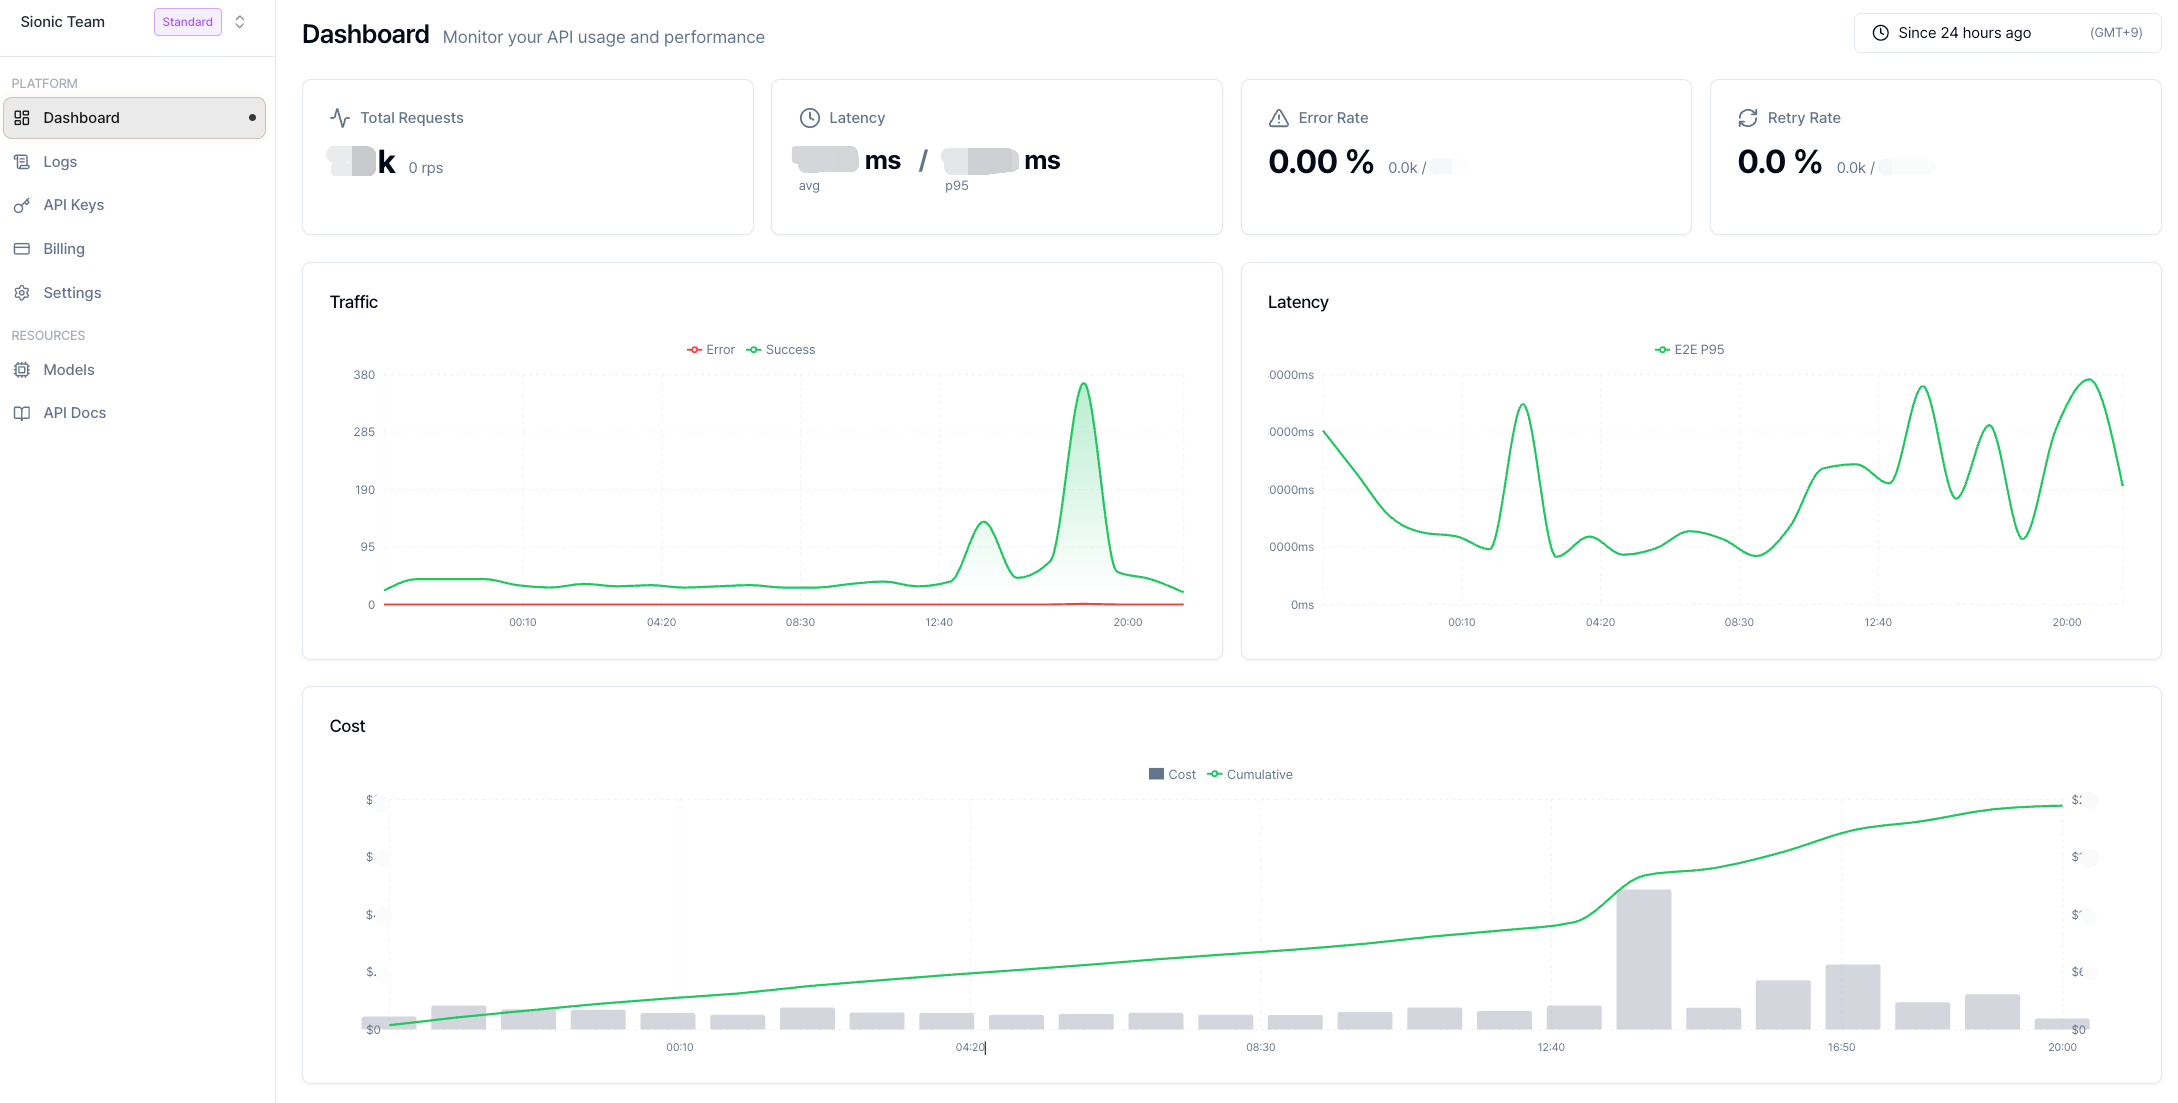
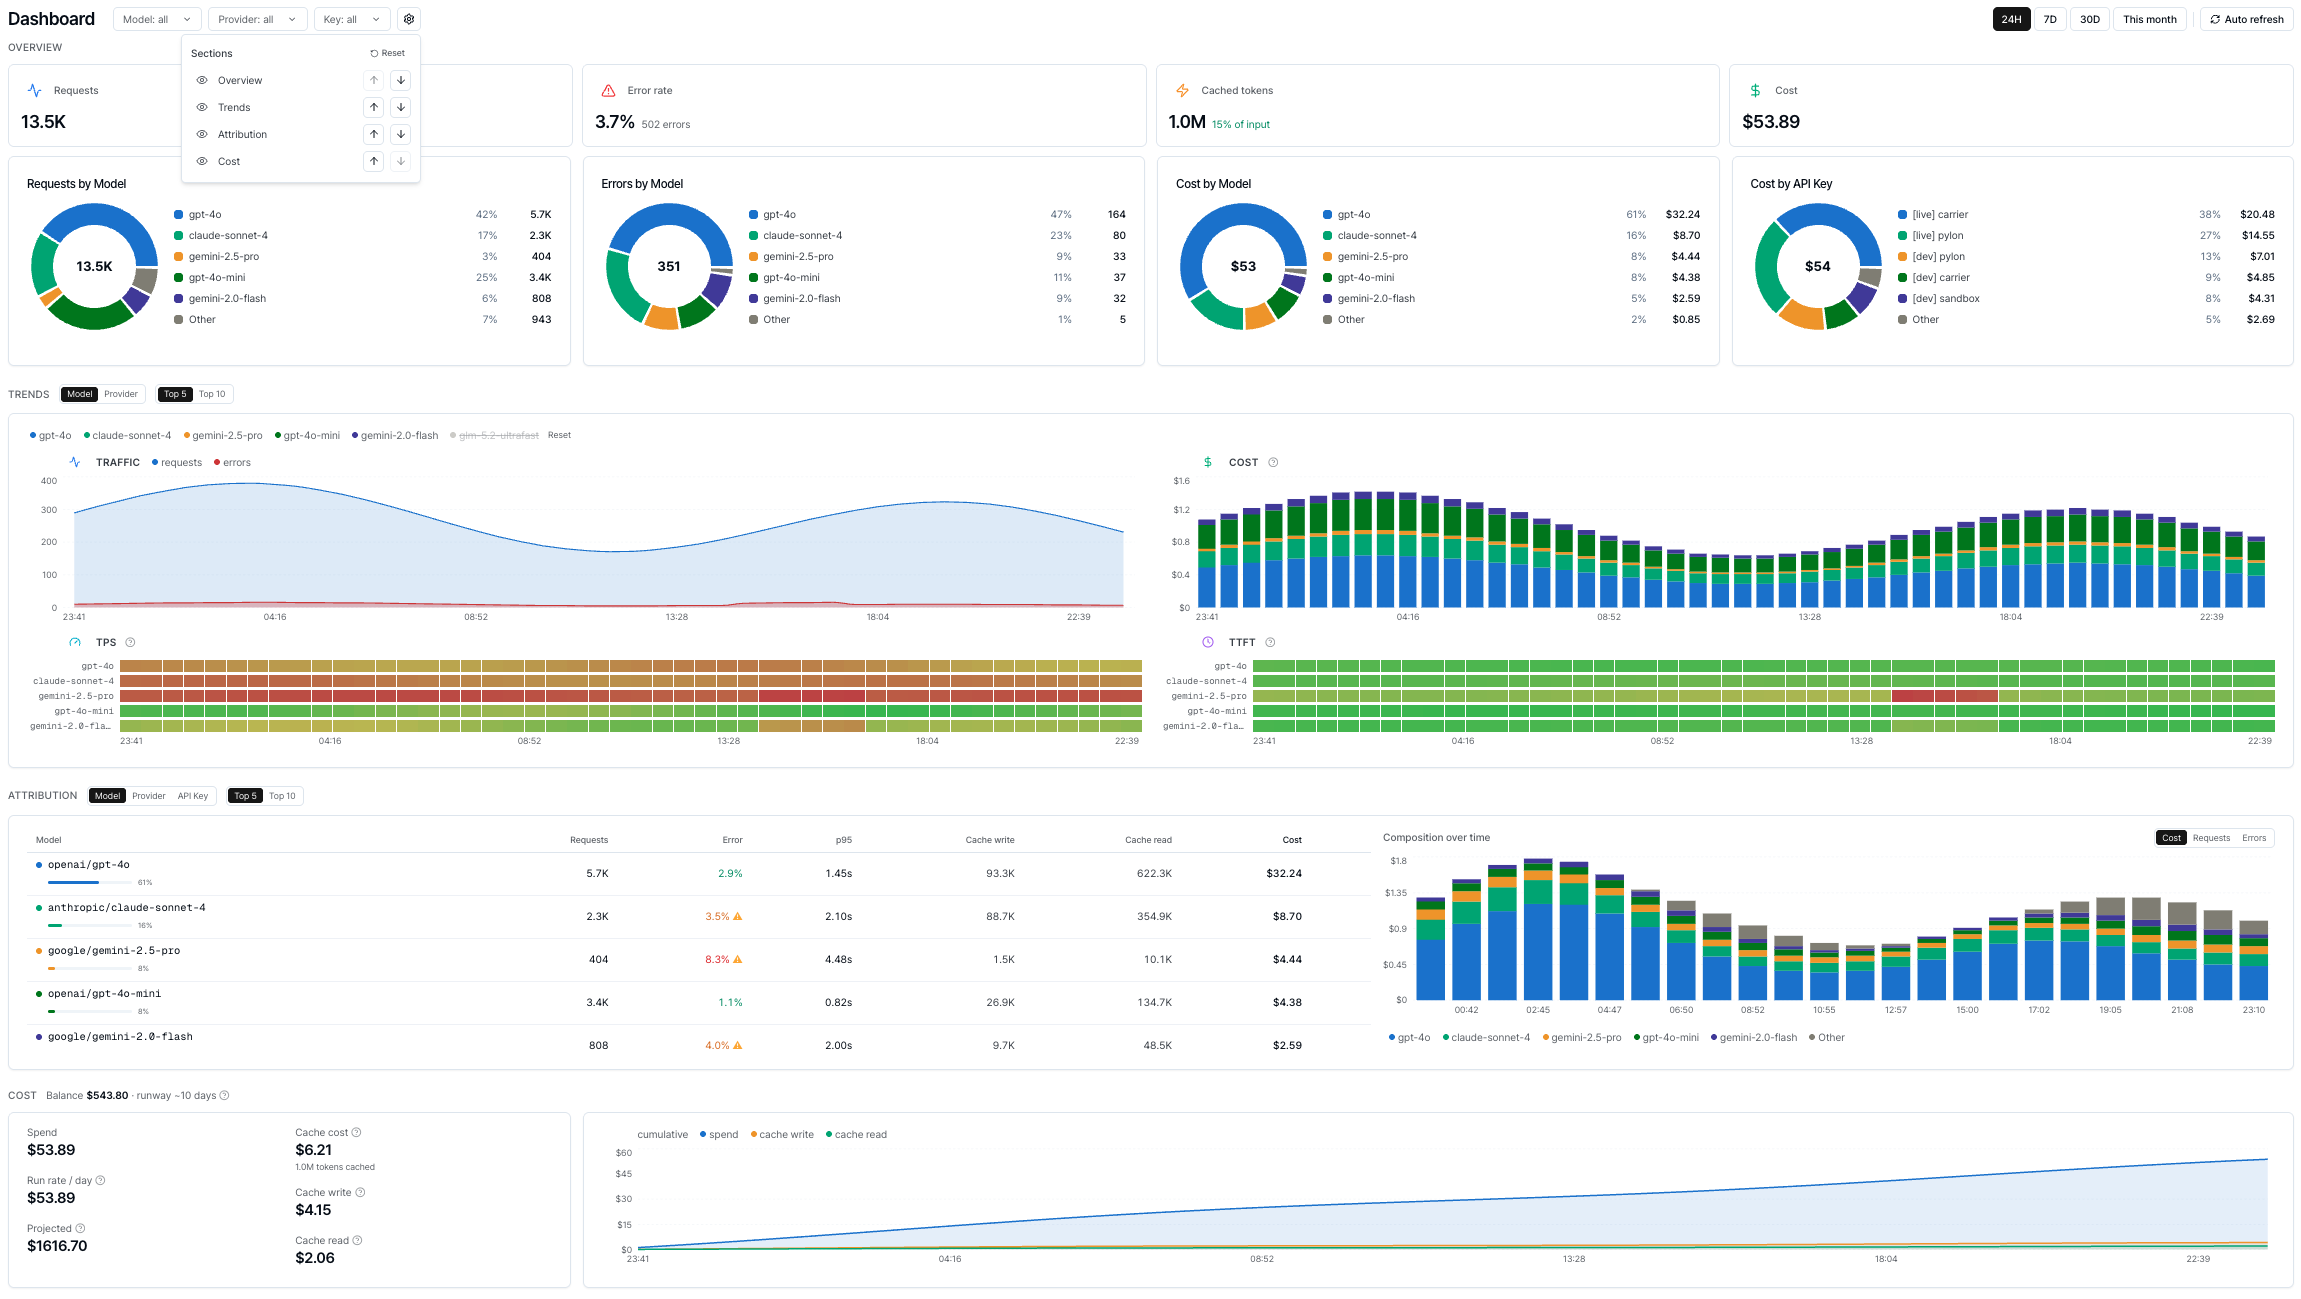
feat: refresh OpenGateway portfolio

diff --git a/src/content.config.ts b/src/content.config.ts
@@ -14,7 +14,8 @@ const schema = z.object({
 
 const portfolio = defineCollection({
   loader: glob({
-    pattern: ["**/*.md", "!**/*.en.md"],
+    // Use one positive pattern: Astro's watch-mode matcher ignores negated array entries.
+    pattern: "**/!(*.en).md",
     base: "./src/content/portfolio",
   }),
   schema,

diff --git a/src/content/portfolio/sionic-ai/03_opengateway.en.md b/src/content/portfolio/sionic-ai/03_opengateway.en.md
@@ -4,7 +4,7 @@ company: Sionic AI
 companySlug: sionic-ai
 period: 2024.09 — now
 order: 1
-summary: Extended an internal model routing engine into an OpenAI-compatible public API Gateway product. Serving RPM 180, Daily 250K, 10+ Providers, 100+ Models.
+summary: Extended an internal model routing engine into an OpenAI-compatible public API Gateway product. Serving RPM 200, Daily 280K, 10+ Providers, 100+ Models.
 tags: [API Gateway, Model Routing, Prompt Cache, Spring, Kotlin, Billing, Multi-deployment]
 ---
 
@@ -21,7 +21,7 @@ It was initially developed as a feature used only by internal services, but as e
 - [opengateway.ai](https://opengateway.ai/) — live service
 - Extended the existing internal model serving feature into an OpenAI-compatible public API Gateway product, building out every flow including API Key, Authn/Authz, Billing, Logs, and the frontend UI
 - Designed availability-first routing, Prompt Cache stickiness, parameter/error normalization, and a shared compatibility Mapper delegation structure, enabling consistent expansion to 10+ Providers under a single OpenAI spec
-- Stably serving traffic at the level of RPM 180 and Daily 250K, with 10+ Providers and 100+ models
+- Stably serving traffic at the level of RPM 200 and Daily 280K, with 10+ Providers and 100+ models
 - Connected Redeem Code, Admin features, Grafana observability, and model smoke/CI/daily tests to improve both operational observability and live stability
 
 ## Design and Implementation
@@ -31,26 +31,6 @@ To plan and develop 2 backends and 1 frontend simultaneously with one junior dev
 - Kept policies and work standards as a single source of truth in Skills, so that humans and AI could work in the same context
 - Separated the flows to be controlled from dynamic decision-making in the system, clearly distinguishing the areas to review directly from the areas to delegate to AI
 - More details are documented in [Thoughts on development that actively leverages AI](/en/portfolio/sionic-ai/05_ai-development-workflow/)
-
-<div class="img-row-small">
-
-<figure class="grid-cap">
-
-![BE server release log 1](./assets/opengateway-releases-1.png)
-
-*Backend release history showing frequent, versioned deployments.*
-
-</figure>
-
-<figure class="grid-cap">
-
-![BE server release log 2](./assets/opengateway-releases-2.png)
-
-*Continued backend release log entries with change summaries per version.*
-
-</figure>
-
-</div>
 
 ![OpenGateway end-to-end flow — separation of engine and back office](./assets/opengateway-architecture.en.svg)
 

diff --git a/src/content/portfolio/sionic-ai/03_opengateway.md b/src/content/portfolio/sionic-ai/03_opengateway.md
@@ -4,7 +4,7 @@ company: 사이오닉AI
 companySlug: sionic-ai
 period: 2024.09 — now
 order: 1
-summary: 내부용 모델 라우팅 엔진을 OpenAI 호환 public API Gateway 상품으로 확장. 가용성 우선 라우팅·캐시 stickiness, 파라미터·에러 정규화 설계. RPM 180, Daily 250K, 10+ Provider, 100+ Model 서빙.
+summary: 내부용 모델 라우팅 엔진을 OpenAI 호환 public API Gateway 상품으로 확장. 가용성 우선 라우팅·캐시 stickiness, 파라미터·에러 정규화 설계. RPM 200, Daily 280K, 10+ Provider, 100+ Model 서빙.
 tags: [API Gateway, Model Routing, Prompt Cache, Spring, Kotlin, Billing, Multi-deployment]
 ---
 
@@ -21,7 +21,7 @@ tags: [API Gateway, Model Routing, Prompt Cache, Spring, Kotlin, Billing, Multi-
 - [opengateway.ai](https://opengateway.ai/) — 현재 운영 중인 서비스
 - 기존 내부 모델 서빙 기능을 OpenAI 호환 public API Gateway 상품으로 확장하고, API Key, Authn/Authz, Billing, Logs, 프론트 화면까지 모든 흐름을 구축했습니다
 - 가용성 우선 라우팅·Prompt Cache stickiness, 파라미터·에러 정규화, 공통 호환 Mapper 위임 구조를 설계해 단일 OpenAI 스펙으로 10+ Provider 를 일관되게 확장할 수 있게 했습니다
-- RPM 180, Daily 250K 수준의 트래픽, 10+ Provider, 100+ 모델을 안정적으로 서빙하고 있습니다
+- RPM 200, Daily 280K 수준의 트래픽, 10+ Provider, 100+ 모델을 안정적으로 서빙하고 있습니다
 - Redeem Code, Admin 기능, Grafana 관측, 모델 smoke/CI/daily test 를 연결해 운영 관측성과 live 안정성을 함께 개선했습니다
 
 ## 설계 및 구현
@@ -31,14 +31,6 @@ tags: [API Gateway, Model Routing, Prompt Cache, Spring, Kotlin, Billing, Multi-
 - 정책과 작업 기준은 Skill 로 single source of truth 로 두어, 사람과 AI 가 같은 맥락에서 작업할 수 있도록 했습니다
 - 시스템은 통제할 흐름과 동적 의사결정을 분리해, 직접 검토할 영역과 AI 에게 위임할 영역을 명확히 구분했습니다
 - 더 자세한 내용은 [AI를 적극적으로 활용하는 개발에 대한 생각](/portfolio/sionic-ai/05_ai-development-workflow/)에 정리되어 있습니다
-
-<div class="img-row-small">
-
-![BE 서버 릴리즈 기록 1](./assets/opengateway-releases-1.png)
-
-![BE 서버 릴리즈 기록 2](./assets/opengateway-releases-2.png)
-
-</div>
 
 ![OpenGateway 전체 흐름 — 엔진과 백오피스의 분리](./assets/opengateway-architecture.svg)
 

diff --git a/src/content/portfolio/sionic-ai/05_ai-development-workflow.md b/src/content/portfolio/sionic-ai/05_ai-development-workflow.md
@@ -60,5 +60,5 @@ AI 를 항상 통제하면서만 쓰지는 않습니다. 양쪽을 모두 알아
 
 - 프론트엔드 · 파이썬 개발과 `코드를 보지 않고 머지합니다` 의 철학으로 만든 사이드 프로젝트 [read4ai](https://github.com/read4ai/read4ai-excel)
 - Claude Code 버전 히스토리에 관심을 가지고 LLM API 를 직접 호출해보며 업무 흐름에 적용 가능한 것들을 학습합니다
-- 사용 도구도 계속 조정합니다. 초기 `cmux + Claude Code + Codex plugin` 조합에서, Opus 4.7 이후 체감 성능 저하로 현재는 Codex 중심으로 전환했습니다
+- 작업의 성격에 따라 Codex, Claude Code, Hermes를 적절히 조합해 사용하며, 각 도구의 강점을 업무 흐름에 맞게 활용합니다
 - LinkedIn · GeekNews · release note 등으로 AI 정보를 습득하고 팀에도 공유합니다

diff --git a/src/content/portfolio/sionic-ai/05_ai-development-workflow.en.md b/src/content/portfolio/sionic-ai/05_ai-development-workflow.en.md
@@ -74,5 +74,5 @@ I do not always use AI under strict control. Because I believe you need to know 
 
 - [read4ai](https://github.com/read4ai/read4ai-excel), a side project built with frontend and Python development and the philosophy of `merging without looking at the code`
 - I take interest in the Claude Code version history and call the LLM API directly to learn what can be applied to workflows
-- I continuously adjust my tooling as well. Starting from a `cmux + Claude Code + Codex plugin` combination, I have currently shifted toward Codex due to the perceived performance drop after Opus 4.7
+- Depending on the work at hand, I combine Codex, Claude Code, and Hermes as appropriate, using each tool's strengths in the workflow where they fit best
 - I gather AI information through LinkedIn, GeekNews, release notes, and more, and share it with the team
